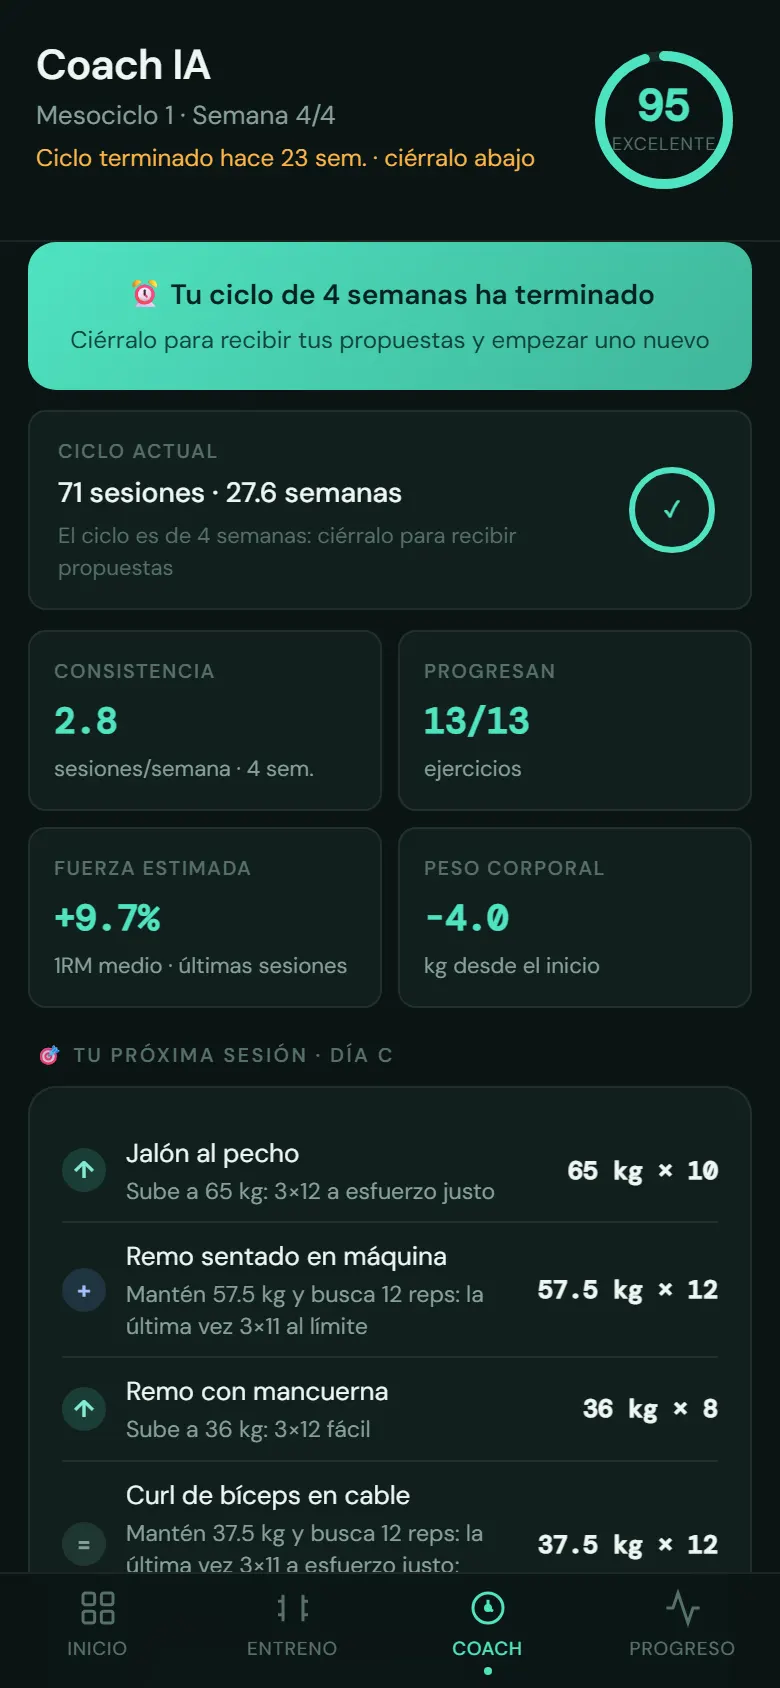
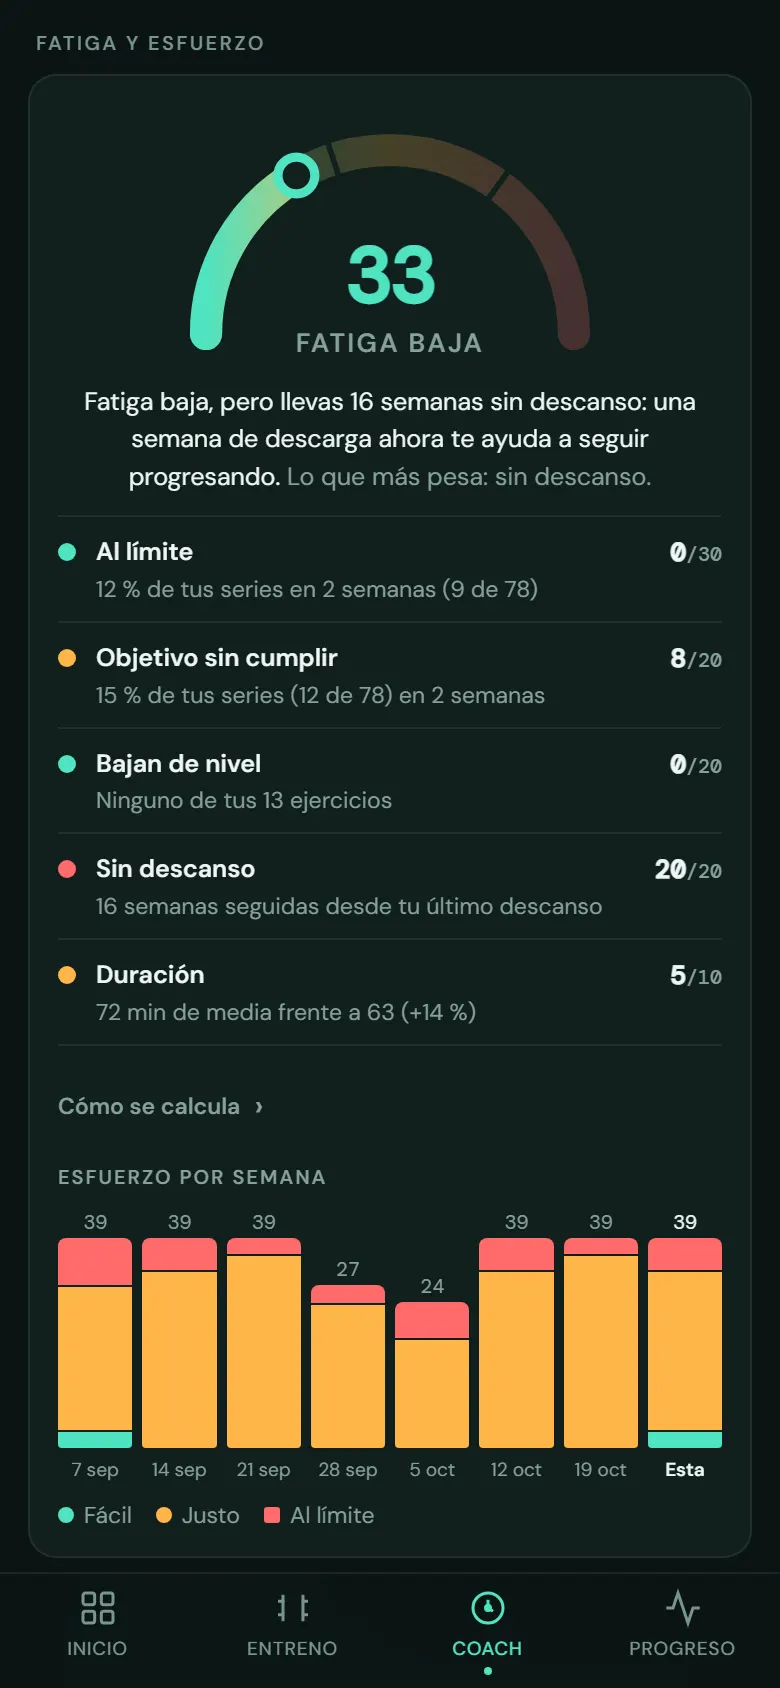
Gymteca: capturas de la app nueva y sus novedades en la web
- Capturas rehechas con la app del 1 nov (Progreso 2.0, fatiga en el Coach,
  Wrapped y repaso visual): inicio, serie a serie, técnica 3D, Coach con el
  medidor de fatiga y Progreso con el calendario de constancia.
- Dos capturas nuevas: la ficha del ejercicio con su gráfica de 1RM y el
  resumen del mes (Wrapped).
- Nueva sección «Mira cuánto has mejorado» con la ficha, los estados de cada
  ejercicio, el calendario de constancia y «Más fuerte y más ligero».
- Coach: medidor de fatiga, esfuerzo de 8 semanas y semana de descarga.
- Tarjetas: «Tu mes, en una historia» y copias de seguridad sin conexión.
- Galería de 7 capturas, en dos filas en escritorio; og.png con el inicio nuevo.
- --text3 pasa a #79948f, como en la app, para llegar a 4,5:1.

diff --git a/index.html b/index.html
@@ -139,15 +139,15 @@
     <article class="feature rev">
       <div>
         <h3>Un Coach que sabe cuándo subir el peso <span class="badge-pro">PRO</span></h3>
-        <p>Gymteca analiza tus últimas sesiones y te propone el objetivo de cada ejercicio: subir carga, buscar una repetición más o mantener. Siempre con el porqué.</p>
+        <p>Gymteca analiza tus últimas sesiones y te propone el objetivo de cada ejercicio: subir carga, buscar una repetición más o mantener. Siempre con el porqué. Y vigila tu fatiga para avisarte cuando te conviene bajar el ritmo.</p>
         <ul>
           <li>Doble progresión: primero repeticiones, luego peso</li>
           <li>Incrementos reales según el material (máquina, mancuerna, barra)</li>
-          <li>Ciclos de 4 semanas y semana de descarga cuando toca</li>
-          <li>Fuerza estimada, constancia y peso corporal de un vistazo</li>
+          <li>Medidor de fatiga y tu esfuerzo de las últimas 8 semanas</li>
+          <li>Semana de descarga cuando la fatiga sube o llevas muchas semanas sin descanso: tú eliges menos series o menos peso</li>
         </ul>
       </div>
-      <div class="feature-media"><div class="phone"><img src="/assets/img/app-coach.webp" width="780" height="1688" alt="Pantalla del Coach de Gymteca con la puntuación del ciclo y los objetivos de la próxima sesión" loading="lazy"></div></div>
+      <div class="feature-media"><div class="phone"><img src="/assets/img/app-coach.webp" width="780" height="1688" alt="Medidor de fatiga del Coach de Gymteca con sus factores y las barras de esfuerzo de las últimas 8 semanas" loading="lazy"></div></div>
     </article>
 
     <article class="feature">
@@ -161,6 +161,20 @@
         </ul>
       </div>
       <div class="feature-media"><div class="phone"><img src="/assets/img/app-tecnica-3d.webp" width="780" height="1688" alt="Ejercicio de jalón al pecho animado en 3D dentro de una sesión de Gymteca" loading="lazy"></div></div>
+    </article>
+
+    <article class="feature rev">
+      <div>
+        <h3>Mira cuánto has mejorado</h3>
+        <p>Cada ejercicio tiene su ficha con la gráfica de tu progreso, y Gymteca te dice cuáles avanzan y cuáles se han estancado.</p>
+        <ul>
+          <li>Gráfica de peso máximo y 1RM estimado, con tus récords marcados</li>
+          <li>Cada ejercicio con su estado: récord reciente, progresando, estancado o bajando</li>
+          <li>Calendario de constancia de 26 semanas con tu racha actual y tu mejor racha</li>
+          <li>«Más fuerte y más ligero»: tu fuerza frente a la tendencia de tu peso</li>
+        </ul>
+      </div>
+      <div class="feature-media"><div class="phone"><img src="/assets/img/app-ficha.webp" width="780" height="1688" alt="Ficha de la sentadilla en Smith con la gráfica de peso máximo y 1RM estimado de los últimos 6 meses" loading="lazy"></div></div>
     </article>
   </div>
 </section>
@@ -194,13 +208,13 @@
       </div>
       <div class="card">
         <div class="ic"><svg viewBox="0 0 24 24" fill="none" stroke="currentColor" stroke-width="2" stroke-linecap="round" stroke-linejoin="round" aria-hidden="true"><path d="M3 3v18h18"/><path d="M7 15l4-4 3 3 5-6"/></svg></div>
-        <h3>Progreso claro</h3>
-        <p>Constancia por día, historial de cada ejercicio y gráfica de tu peso corporal.</p>
+        <h3>Tu mes, en una historia</h3>
+        <p>Cada mes y cada ciclo, un resumen a pantalla completa con tus kilos, récords y el ejercicio que más mejoró. Compártelo como imagen.</p>
       </div>
       <div class="card">
         <div class="ic"><svg viewBox="0 0 24 24" fill="none" stroke="currentColor" stroke-width="2" stroke-linecap="round" stroke-linejoin="round" aria-hidden="true"><path d="M12 3v12M7 10l5 5 5-5M5 21h14"/></svg></div>
         <h3>Tus datos, tuyos</h3>
-        <p>Exporta una copia de seguridad o tus registros en CSV cuando quieras, sin pedir permiso a nadie.</p>
+        <p>Funciona sin conexión y te recuerda hacer una copia de seguridad. Expórtala, o tus registros en CSV, cuando quieras.</p>
       </div>
     </div>
   </div>
@@ -230,8 +244,10 @@
       <figure><div class="phone"><img src="/assets/img/app-inicio.webp" width="780" height="1688" alt="Inicio con la sesión de hoy" loading="lazy"></div><figcaption>Inicio · Hoy toca</figcaption></figure>
       <figure><div class="phone"><img src="/assets/img/app-serie-a-serie.webp" width="780" height="1688" alt="Registro de series y descanso" loading="lazy"></div><figcaption>Serie a serie</figcaption></figure>
       <figure><div class="phone"><img src="/assets/img/app-tecnica-3d.webp" width="780" height="1688" alt="Técnica del ejercicio en 3D" loading="lazy"></div><figcaption>Técnica 3D</figcaption></figure>
-      <figure><div class="phone"><img src="/assets/img/app-coach.webp" width="780" height="1688" alt="Coach con objetivos de la próxima sesión" loading="lazy"></div><figcaption>Coach</figcaption></figure>
-      <figure><div class="phone"><img src="/assets/img/app-progreso.webp" width="780" height="1688" alt="Progreso con mapa muscular en 3D" loading="lazy"></div><figcaption>Progreso</figcaption></figure>
+      <figure><div class="phone"><img src="/assets/img/app-coach.webp" width="780" height="1688" alt="Coach con el medidor de fatiga y el esfuerzo por semana" loading="lazy"></div><figcaption>Coach · Fatiga</figcaption></figure>
+      <figure><div class="phone"><img src="/assets/img/app-progreso.webp" width="780" height="1688" alt="Progreso con el calendario de constancia y el mapa muscular en 3D" loading="lazy"></div><figcaption>Progreso</figcaption></figure>
+      <figure><div class="phone"><img src="/assets/img/app-ficha.webp" width="780" height="1688" alt="Ficha de un ejercicio con su gráfica de progreso y el historial" loading="lazy"></div><figcaption>Ficha del ejercicio</figcaption></figure>
+      <figure><div class="phone"><img src="/assets/img/app-wrapped.webp" width="780" height="1688" alt="Resumen del mes con los kilos levantados en octubre" loading="lazy"></div><figcaption>Tu mes</figcaption></figure>
     </div>
   </div>
 </section>

diff --git a/assets/styles.css b/assets/styles.css
@@ -9,7 +9,7 @@
   --bg:#0b1514;--bg2:#11201e;--bg3:#182b28;--bg4:#203632;
   --bg-rgb:11,21,20;
   --border:rgba(238,246,244,.08);--border2:rgba(238,246,244,.14);
-  --text:#eef6f4;--text2:#86a19c;--text3:#557069;
+  --text:#eef6f4;--text2:#86a19c;--text3:#79948f;
   --green:#4fe3c1;--green2:#80ecd3;--green-rgb:79,227,193;
   --green-bg:rgba(var(--green-rgb),.1);--green-b:rgba(var(--green-rgb),.32);
   --accent-ink:#062320;
@@ -113,7 +113,7 @@ h2{font-size:clamp(30px,4.2vw,46px);line-height:1.08;letter-spacing:-1.2px;font-
 .gallery .phone{width:240px;border-radius:36px;padding:8px}
 .gallery .phone img{border-radius:28px}
 .gallery figcaption{font-size:14px;color:var(--text2)}
-@media (min-width:1180px){.gallery{justify-content:center;overflow:visible}}
+@media (min-width:1180px){.gallery{flex-wrap:wrap;justify-content:center;row-gap:36px;overflow:visible}.gallery .phone{width:220px}}
 
 /* Visor de capturas ampliadas */
 .phone img{cursor:zoom-in}
